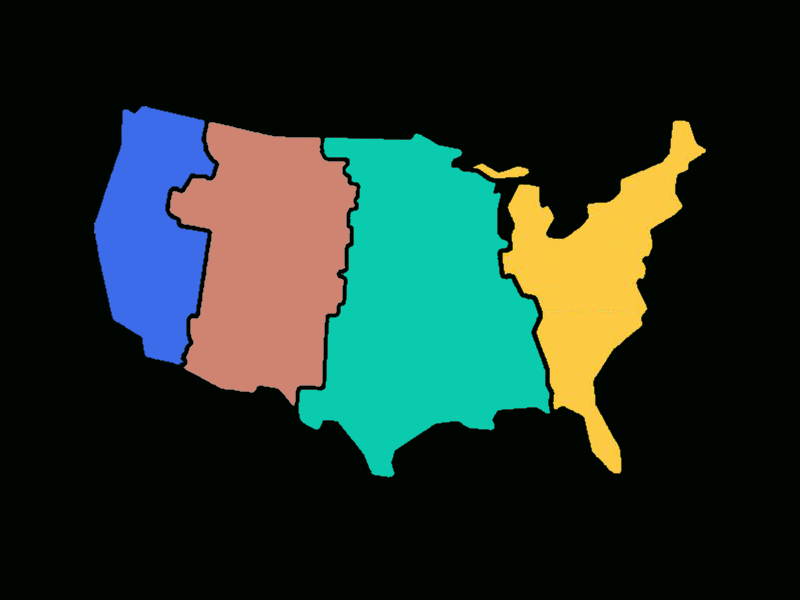
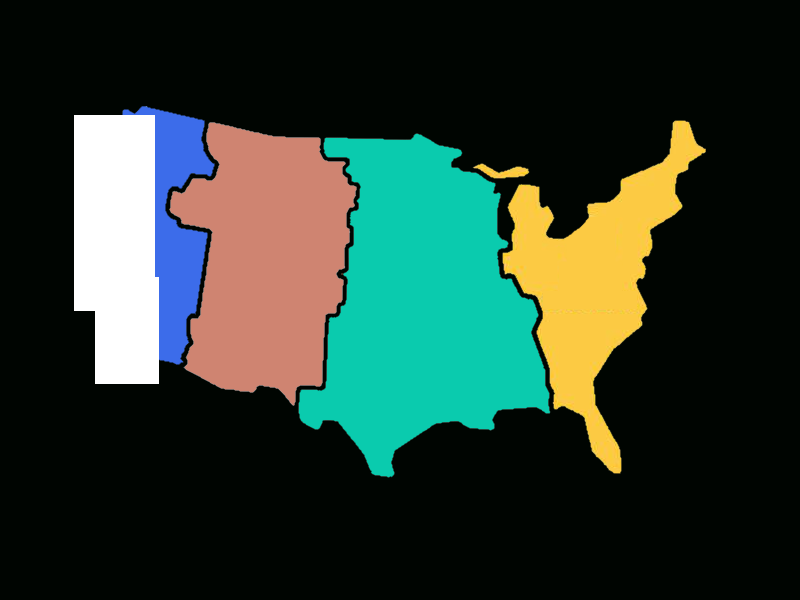
tint!

Changed region(s): [[0.0938, 0.18, 0.2188, 0.66]]

diff --git a/timezones/src/main.ts b/timezones/src/main.ts
@@ -1,10 +1,12 @@
 import GUI from "lil-gui"
 
 import { imageFromUrl } from "../../kommon/kanvas"
+import { lerpHexColor } from "../../kommon/kommon"
 import { Vec2, clamp, lerp, mod, towards } from "../../kommon/math"
 
 import map_vanilla_url from "./images/map_vanilla.png?url"
 import face_handler_url from "./images/face_handler.png?url"
+import { hexToCSSFilter } from "hex-to-css-filter"
 
 const CONFIG = {
   tmp50: 50,
@@ -30,6 +32,13 @@ let textures = {
   map_vanilla: await imageFromUrl(map_vanilla_url),
   face_handler: await imageFromUrl(face_handler_url),
 };
+
+let image_elements = [
+  document.querySelector("#california") as HTMLImageElement,
+  document.querySelector("#alamos") as HTMLImageElement,
+  document.querySelector("#nowhere") as HTMLImageElement,
+  document.querySelector("#nyc") as HTMLImageElement,
+]
 
 type City = { id: string, screen_pos: Vec2 };
 let cities: City[] = [
@@ -72,6 +81,14 @@ let undo_button = {
   hovering: false,
 };
 
+let machine = {
+  shown: false,
+  active: false,
+  center: new Vec2(68, 317),
+  size: new Vec2(40, 40),
+  hovering: false,
+};
+
 let tutorial_sequence: ReturnType<typeof tutorialSequence> | null = tutorialSequence();
 tutorial_sequence.next();
 
@@ -81,6 +98,7 @@ document.addEventListener("pointermove", ev => {
     return (20 * 20) > Vec2.magSq(Vec2.sub(mouse_pos, screen_pos));
   })?.id || null;
   undo_button.hovering = Vec2.inBounds(Vec2.sub(mouse_pos, undo_button.top_left), undo_button.size);
+  machine.hovering = machine.shown && Vec2.isInsideBox(mouse_pos, machine.center, machine.size);
 });
 
 document.addEventListener("pointerdown", ev => {
@@ -104,6 +122,10 @@ document.addEventListener("pointerdown", ev => {
       player_city = prev.city;
       player_time = prev.time;
     }
+  } else if (machine.shown && !machine.active) {
+    if (player_city === "california") {
+      machine.active = true;
+    }
   }
 })
 
@@ -113,6 +135,8 @@ function every_frame(cur_timestamp: number) {
   if (last_timestamp === null) {
     // first frame
     last_timestamp = cur_timestamp;
+    animValue("machine_shown", 0, { targetValue: 0, lerpFactor: 1 });
+    animValue("magic", 0, { targetValue: 0, lerpFactor: 1 });
     requestAnimationFrame(every_frame);
     return;
   }
@@ -124,7 +148,8 @@ function every_frame(cur_timestamp: number) {
   // update
 
   // draw
-  ctx.drawImage(textures.map_vanilla, 0, 0);
+  // ctx.drawImage(textures.map_vanilla, 0, 0);
+  ctx.clearRect(0, 0, canvas.width, canvas.height);
 
   ctx.font = "30px monospace";
   ctx.fillStyle = "white";
@@ -231,9 +256,51 @@ function every_frame(cur_timestamp: number) {
   const colors = ["#3C6CEA", "#CF8471", "#0ACBAE", "#FCCA43"];
   colors.forEach((color, k) => {
     let value = k + .5 * (player_time + player_time_anim_offset);
-    ctx.fillStyle = color;
+    if (machine.active) {
+      let magic_progress = animValue("magic", delta_time, { targetValue: 1, lerpFactor: .005 });
+      value -= k * magic_progress;
+      if (magic_progress === 1) {
+        ctx.fillStyle = colors[0];
+        doOnce(`magic_color_${k}`, () => image_elements[k].style.filter = hexToCSSFilter(colors[0]).filter.replace(";", ""));
+      } else {
+        let lerped_color = lerpHexColor(color, colors[0], magic_progress);
+        ctx.fillStyle = lerped_color;
+        image_elements[k].style.filter = hexToCSSFilter(lerped_color).filter.replace(";", "");
+      }
+    } else {
+      ctx.fillStyle = color;
+      doOnce(`start_color_${k}`, () => image_elements[k].style.filter = hexToCSSFilter(color).filter.replace(";", ""));
+    }
     ctx.fillText(stringFromTime(value), 57 + k * 164, 525);
   });
+
+  // draw machine
+  {
+    if (machine.shown) {
+      if (machine.active) {
+        let remaining = animValue("machine_hovered", delta_time, { targetValue: 0, lerpFactor: .2 });
+        ctx.beginPath();
+        ctx.fillStyle = "#22f24c";
+        rectFromCenter(machine.center, machine.size);
+        ctx.fill();
+        ctx.beginPath();
+        ctx.fillStyle = "#052713";
+        rectFromCenter(machine.center, Vec2.scale(machine.size, .8 * remaining));
+        ctx.fill();
+      } else {
+        let shown = animValue("machine_shown", delta_time, { targetValue: 1, lerpFactor: .04 });
+        let hovered = animValue("machine_hovered", delta_time, { targetValue: machine.hovering ? (player_city === "california" ? .6 : .9) : 1, lerpFactor: .2 });
+        ctx.beginPath();
+        ctx.fillStyle = "#22f24c";
+        rectFromCenter(machine.center, Vec2.scale(machine.size, shown));
+        ctx.fill();
+        ctx.beginPath();
+        ctx.fillStyle = "#052713";
+        rectFromCenter(machine.center, Vec2.scale(machine.size, .8 * shown * hovered));
+        ctx.fill();
+      }
+    }
+  }
 
   if (tutorial_sequence !== null && tutorial_sequence.next(delta_time).done) {
     tutorial_sequence = null;
@@ -301,7 +368,7 @@ function* tutorialSequence(): Generator<void, void, number> {
   }
 
   if (!success) {
-    const text_dissapointed = "AGENT T: come on, this is no game. Undo and try again.\nWe really need you in NYC before 5:40";
+    const text_dissapointed = "AGENT T: come on, this is no game. Undo and try again.\nñWe really need you in NYC before 5:40";
     n_show_chars = 0;
     while (true) {
       hideClocks();
@@ -309,33 +376,52 @@ function* tutorialSequence(): Generator<void, void, number> {
       n_show_chars = towards(n_show_chars, text_dissapointed.length, dt / .02);
       handlerText(text_dissapointed.slice(0, Math.floor(n_show_chars)));
       if (player_city === "nyc" && player_time <= 9) {
-        break
+        break;
       }
       dt = yield;
     }
   }
   n_show_chars = 0;
-  const text_twist = "AGENT T: did I say 5:40? I meant 5:40, NYC time";
-  let clock_unhide_progress = 0;
+  const text_twist = `AGENT T: did I say 5:40? I meant 5:40, NYC time
+ññNo way to get there fast enoughñ.ñ.ñ.ññññ unlessñ.ñ.ñ.ñññññ
+Undo back to the start, and go to Californiaññ
+We have a useful device there.`;
+  let clock_unhide_anim_t = 0;
   while (true) {
-    clock_unhide_progress = towards(clock_unhide_progress, 1, dt / 1);
-    hideClocks(clock_unhide_progress);
+    clock_unhide_anim_t = towards(clock_unhide_anim_t, 1, dt / 1);
+    hideClocks(clock_unhide_anim_t);
     handlerFace();
-    n_show_chars = towards(n_show_chars, text_twist.length, dt / .02);
-    handlerText(text_twist.slice(0, Math.floor(n_show_chars)));
+    let in_pause = text_twist.charAt(Math.floor(n_show_chars)) === 'ñ';
+    n_show_chars = towards(n_show_chars, text_twist.length, (in_pause ? .05 : 1) * dt / .02);
+    let shown_text = text_twist.slice(0, Math.floor(n_show_chars));
+    handlerText(shown_text);
+    machine.shown = true; // DEBUG
+    if (!machine.shown && shown_text.includes("California")) {
+      machine.shown = true;
+    }
+    if (machine.active) {
+      break;
+    }
     dt = yield;
   }
-
-  // while (true) {
-  //   ctx.drawImage(textures.face_handler, 0, 0);
-  //   dt = yield;
-  // }
-
+  // machine has been activated!
+  n_show_chars = 0;
+  const text_good_job = `AGENT T: Good job! Now all the US of A is on the same timezone.
+ññDon't run into your past self!`;
+  while (true) {
+    handlerFace();
+    let in_pause = text_good_job.charAt(Math.floor(n_show_chars)) === 'ñ';
+    n_show_chars = towards(n_show_chars, text_good_job.length, (in_pause ? .05 : 1) * dt / .02);
+    let shown_text = text_good_job.slice(0, Math.floor(n_show_chars));
+    handlerText(shown_text);
+    dt = yield;
+  }
   return;
 
   function handlerText(text: string) {
     ctx.font = "20px monospace";
     ctx.fillStyle = "#22f24c";
+    text = text.replace(/ñ/g, '')
     let lines = text.split('\n');
     lines.forEach((line, k) => {
       ctx.fillText(line, textures.face_handler.width + 10, 20 + k * 25);
@@ -370,6 +456,23 @@ function getConnection(id_a: string, id_b: string): Connection | null {
     return (id_a === a && id_b === b) || (id_b === a && id_a === b);
   }) || null;
 }
+
+///////////////////////////////////
+
+function rectFromCenter(center: Vec2, size: Vec2) {
+  let top_left = Vec2.sub(center, Vec2.scale(size, .5));
+  ctx.rect(top_left.x, top_left.y, size.x, size.y)
+}
+
+///////////////////////////////////
+
+function doOnce(name: string, fn: CallableFunction) {
+  if (!_done_once.has(name)) {
+    fn();
+    _done_once.add(name);
+  }
+}
+let _done_once = new Set<string>();
 
 ///////////////////////////////////
 

diff --git a/timezones/src/index.html b/timezones/src/index.html
@@ -17,6 +17,7 @@
 
         #game_canvas {
             display: block;
+            position: absolute;
             width: 800px;
             height: 600px;
         }
@@ -41,12 +42,31 @@
         canvas:focus {
             outline: none;
         }
+
+        #maps {
+            position: absolute;
+            background-color: #000501;
+            width: 100%;
+            height: 100%;
+            z-index: -2;
+        }
+
+        #maps>img {
+            z-index: -1;
+            position: absolute;
+        }
     </style>
     <script defer type="module" src="main.ts"></script>
 </head>
 
 <body>
     <div id="loading_screen">Loading...</div>
+    <div id="maps">
+        <img src="./images/map_california.png" id="california">
+        <img src="./images/map_alamos.png" id="alamos">
+        <img src="./images/map_nowhere.png" id="nowhere">
+        <img src="./images/map_nyc.png" id="nyc">
+    </div>
     <canvas id="game_canvas"></canvas>
 </body>
 

diff --git a/kommon/math.ts b/kommon/math.ts
@@ -225,6 +225,14 @@ export class Vec2 {
         return v.x * v.x + v.y * v.y;
     }
 
+    static taxicab(v: Vec2): number {
+        return Math.abs(v.x) + Math.abs(v.y);
+    }
+
+    static lInf(v: Vec2): number {
+        return Math.max(Math.abs(v.x), Math.abs(v.y));
+    }
+
     static map1(v: Vec2, fn: (x: number) => number, out?: Vec2): Vec2 {
         out = out || new Vec2();
         out.x = fn(v.x);
@@ -237,6 +245,11 @@ export class Vec2 {
         out.x = fn(a.x, b.x);
         out.y = fn(a.y, b.y);
         return out;
+    }
+
+    static isInsideBox(point: Vec2, box_center: Vec2, box_size: Vec2): boolean {
+        return (Math.abs(point.x - box_center.x) < box_size.x * .5)
+            && (Math.abs(point.y - box_center.y) < box_size.y * .5);
     }
 
     static roundToCardinal(a: Vec2): CardinalDirection {

diff --git a/kommon/kommon.ts b/kommon/kommon.ts
@@ -49,3 +49,25 @@ export class DefaultDict<T> {
         })
     }
 }
+
+// from https://gist.github.com/rosszurowski/67f04465c424a9bc0dae
+// and https://gist.github.com/nikolas/b0cce2261f1382159b507dd492e1ceef
+export function lerpHexColor(a: string, b: string, t: number): string {
+    const ah = Number(a.replace('#', '0x'));
+    const bh = Number(b.replace('#', '0x'));
+
+    const ar = (ah & 0xFF0000) >> 16,
+        ag = (ah & 0x00FF00) >> 8,
+        ab = (ah & 0x0000FF),
+
+        br = (bh & 0xFF0000) >> 16,
+        bg = (bh & 0x00FF00) >> 8,
+        bb = (bh & 0x0000FF),
+
+        rr = ar + t * (br - ar),
+        rg = ag + t * (bg - ag),
+        rb = ab + t * (bb - ab);
+
+
+    return `#${((rr << 16) + (rg << 8) + (rb | 0)).toString(16).padStart(6, '0').slice(-6)}`
+}
